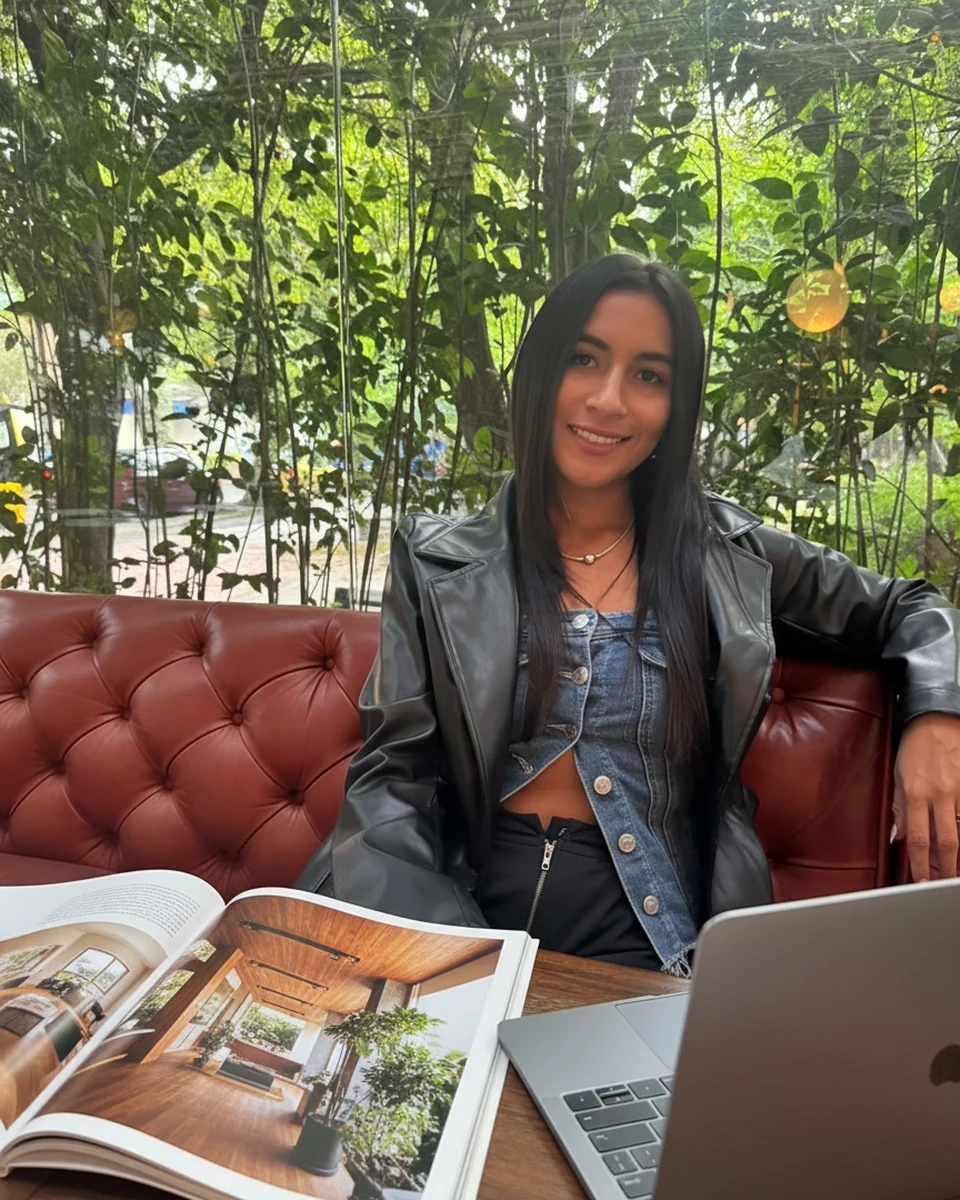
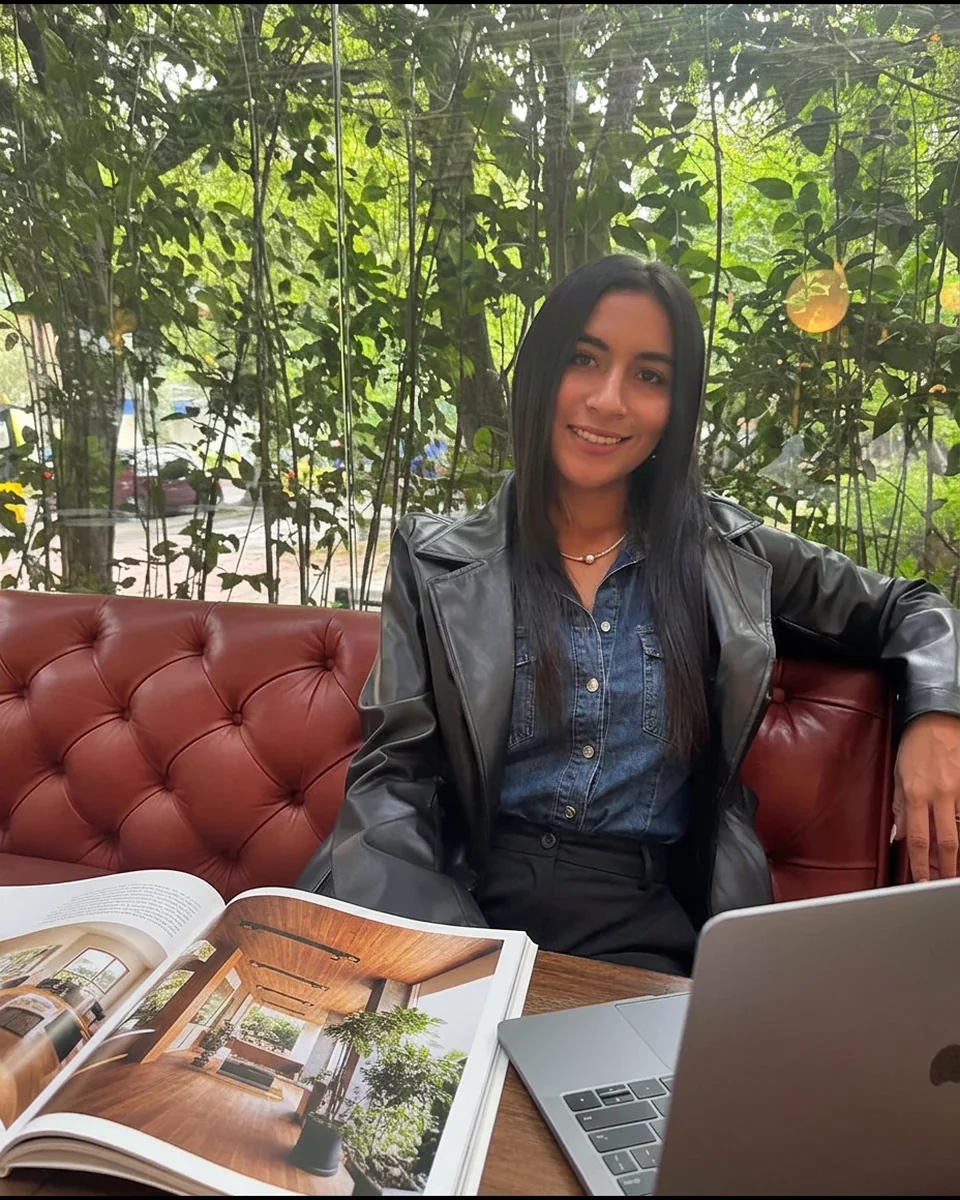
Foto profesional de Luisa, eslogan centrado y sede en Puerto Rico
- Foto de Luisa con la camisa cerrada (sin abdomen visible)
- Concepto: "Habitar" en blanco y "en equilibrio" en arena, centrado y con luz
- Pilares bajo el eslogan: Fenomenologia, Bioclimatica, Jerarquia
- Luisa trabaja desde Puerto Rico en remoto: Sobre mi, pregunta 08 y datos para Google

diff --git a/index.html b/index.html
@@ -4,7 +4,7 @@
   <meta charset="utf-8">
   <meta name="viewport" content="width=device-width, initial-scale=1, viewport-fit=cover">
   <title>Levels Architecture · Luisa F. Rodríguez · Arquitecta | Habitar en equilibrio</title>
-  <meta name="description" content="Arquitectura cálida, orgánica y consciente por Luisa F. Rodríguez. Diseño, remodelación y obra con fenomenología, bioclimática y niveles. Colombia y servicios internacionales. Warm, organic architecture.">
+  <meta name="description" content="Arquitectura cálida, orgánica y consciente por Luisa F. Rodríguez. Diseño, remodelación y obra con fenomenología, bioclimática y niveles. Desde Puerto Rico, con diseño remoto y proyectos en Colombia. Warm, organic architecture.">
   <link rel="canonical" href="https://levelsarchitecture.com/">
   <meta name="robots" content="index, follow, max-image-preview:large">
   <meta name="author" content="Luisa Fernanda Rodríguez Rojas">
@@ -18,7 +18,7 @@
   <meta property="og:image" content="https://levelsarchitecture.com/assets/og.jpg">
   <meta property="og:image:width" content="1200">
   <meta property="og:image:height" content="630">
-  <meta property="og:locale" content="es_CO">
+  <meta property="og:locale" content="es_PR">
   <meta property="og:locale:alternate" content="en_US">
   <meta name="twitter:card" content="summary_large_image">
   <meta name="twitter:title" content="Levels Architecture · Habitar en equilibrio">
@@ -39,9 +39,14 @@
    "logo": "https://levelsarchitecture.com/assets/hero/img/logo-arena.png",
    "image": "https://levelsarchitecture.com/assets/og.jpg",
    "slogan": "Habitar en equilibrio",
-   "description": "Arquitectura cálida, orgánica y consciente: diseño, licenciamiento, presupuestos, interventoría y obra. Fenomenología, bioclimática y niveles. Proyectos en Colombia y servicios internacionales.",
+   "description": "Arquitectura cálida, orgánica y consciente: diseño, licenciamiento, presupuestos, interventoría y obra. Fenomenología, bioclimática y niveles. Con sede en Puerto Rico y trabajo remoto; proyectos en Colombia y servicios internacionales.",
    "telephone": "+1-787-710-6964",
+   "address": {
+    "@type": "PostalAddress",
+    "addressCountry": "PR"
+   },
    "areaServed": [
+    "Puerto Rico",
     "Colombia",
     "International"
    ],
@@ -153,10 +158,10 @@
     },
     {
      "@type": "Question",
-     "name": "¿Trabajas fuera de Colombia? ¿Ofreces diseño remoto?",
+     "name": "¿Dónde estás? ¿Trabajas de forma remota?",
      "acceptedAnswer": {
       "@type": "Answer",
-      "text": "Sí. Levels ofrece servicios internacionales: el proceso de diseño, la asesoría y el seguimiento pueden hacerse de forma remota, con reuniones virtuales y entregas digitales (planos, renders y recorridos). Escríbeme por WhatsApp y revisamos tu proyecto y su ubicación."
+      "text": "Estoy en Puerto Rico y trabajo de forma remota. Levels ofrece servicios internacionales, y mis proyectos están en Colombia: el proceso de diseño, la asesoría y el seguimiento pueden hacerse de forma remota, con reuniones virtuales y entregas digitales (planos, renders y recorridos). Escríbeme por WhatsApp y revisamos tu proyecto y su ubicación."
      }
     },
     {
@@ -262,6 +267,7 @@
     <p class="manifesto__b reveal" data-en="in balance." data-es="en equilibrio."></p>
     <span class="manifesto__rule reveal" aria-hidden="true"></span>
     <p class="manifesto__c reveal" data-en="Space is not looked at, it is lived with the body, the light and the climate. Every level of a project (the body, the space, the surroundings) is resolved in harmony." data-es="No se mira el espacio, se lo vive con el cuerpo, la luz y el clima. Cada nivel de un proyecto (el cuerpo, el espacio, el entorno) se resuelve en armonía."></p>
+    <p class="manifesto__keys reveal" data-en="<span>Phenomenology</span><span>Bioclimatic</span><span>Hierarchy</span>" data-es="<span>Fenomenología</span><span>Bioclimática</span><span>Jerarquía</span>"></p>
     <p class="manifesto__sig reveal">Luisa F. Rodríguez</p>
   </div>
   <svg class="wave" viewBox="0 0 1440 120" preserveAspectRatio="none" aria-hidden="true">
@@ -410,13 +416,13 @@
   <div class="wrap about__grid">
     <div class="about__frame">
       <div class="about__photo">
-        <img src="assets/luisa/luisa.webp" alt="Luisa F. Rodríguez, architect" loading="lazy">
+        <img src="assets/luisa/luisa.webp?v=2" alt="Luisa F. Rodríguez, architect" loading="lazy">
       </div>
     </div>
     <div>
       <p class="eyebrow" data-en="About" data-es="Sobre mí"></p>
       <h2 class="display">Luisa F. <em>Rodríguez</em></h2>
-      <p class="about__text" data-en="An architect who graduated from Universidad Piloto de Colombia, with experience in design, permitting, site supervision, cost estimating and budgeting, and construction. I approach the environment through phenomenology to turn the experience of space into a tool for wellbeing and human development. My technical training on site, in budgets and in leading teams allows me to bring this sensitive vision into built reality, with rigor, feasibility and faithfulness to the design. My proposal is a warm, organic and conscious architecture that accompanies the life of those who inhabit it." data-es="Arquitecta egresada de la Universidad Piloto de Colombia, con experiencia en diseño, licenciamiento, interventoría, costos, presupuestos y ejecución de obra. Comprendo el entorno desde la fenomenología para transformar la experiencia del espacio en una herramienta para el bienestar y el desarrollo humano. Mi formación técnica en obra, presupuestos y dirección de personal me permite llevar esta visión sensible a la realidad construida, con rigor, viabilidad y cumplimiento de lo diseñado. Mi propuesta es una arquitectura cálida, orgánica y consciente, que acompaña la vida de quien la habita."></p>
+      <p class="about__text" data-en="An architect who graduated from Universidad Piloto de Colombia, with experience in design, permitting, site supervision, cost estimating and budgeting, and construction. I approach the environment through phenomenology to turn the experience of space into a tool for wellbeing and human development. My technical training on site, in budgets and in leading teams allows me to bring this sensitive vision into built reality, with rigor, feasibility and faithfulness to the design. My proposal is a warm, organic and conscious architecture that accompanies the life of those who inhabit it. Today I work from Puerto Rico, remotely, with projects in Colombia and abroad." data-es="Arquitecta egresada de la Universidad Piloto de Colombia, con experiencia en diseño, licenciamiento, interventoría, costos, presupuestos y ejecución de obra. Comprendo el entorno desde la fenomenología para transformar la experiencia del espacio en una herramienta para el bienestar y el desarrollo humano. Mi formación técnica en obra, presupuestos y dirección de personal me permite llevar esta visión sensible a la realidad construida, con rigor, viabilidad y cumplimiento de lo diseñado. Mi propuesta es una arquitectura cálida, orgánica y consciente, que acompaña la vida de quien la habita. Hoy trabajo desde Puerto Rico, de forma remota, con proyectos en Colombia y otros países."></p>
       <ul class="about__method">
         <li><b data-en="Feel" data-es="Sentir"></b><span data-en="Phenomenology: light, materials, environment." data-es="Fenomenología: luz, materiales, entorno."></span></li>
         <li><b data-en="Design" data-es="Diseñar"></b><span data-en="From the why: the wellbeing of whoever lives it." data-es="Desde el porqué: el bienestar de quien lo habita."></span></li>
@@ -476,10 +482,10 @@
           data-es="<p>Ambos. Cada proyecto parte de la misma pregunta, sea cual sea su uso. Comercial: <b>CIELO</b>, una tienda de açaí bowls en Mosquera. Residencial: <b>FINCA LOMIX</b> (finca de retiro en Cumaca), <b>EL REFUGIO</b> (casa familiar ampliada en Pacho) y <b>CASA NIDO</b> (casa que se abre al jardín en Anapoima). Obra nueva, ampliaciones y remodelaciones.</p>"></div>
       </details>
       <details>
-        <summary data-en="<span class='faq__n'>08</span>Do you work outside Colombia? Do you offer remote design?" data-es="<span class='faq__n'>08</span>¿Trabajas fuera de Colombia? ¿Ofreces diseño remoto?"></summary>
+        <summary data-en="<span class='faq__n'>08</span>Where are you based? Do you work remotely?" data-es="<span class='faq__n'>08</span>¿Dónde estás? ¿Trabajas de forma remota?"></summary>
         <div class="faq__a"
-          data-en="<p>Yes. Levels offers international services: the design process, advisory and follow-up can be done remotely, with virtual meetings and digital deliverables (plans, renders and walkthroughs). <a data-wa href='https://wa.me/17877106964' target='_blank' rel='noopener'>Write to me on WhatsApp</a> and we will look at your project and where it is.</p>"
-          data-es="<p>Sí. Levels ofrece servicios internacionales: el proceso de diseño, la asesoría y el seguimiento pueden hacerse de forma remota, con reuniones virtuales y entregas digitales (planos, renders y recorridos). <a data-wa href='https://wa.me/17877106964' target='_blank' rel='noopener'>Escríbeme por WhatsApp</a> y revisamos tu proyecto y su ubicación.</p>"></div>
+          data-en="<p>I am based in Puerto Rico and work remotely. Levels offers international services, and my projects are in Colombia: the design process, advisory and follow-up can be done remotely, with virtual meetings and digital deliverables (plans, renders and walkthroughs). <a data-wa href='https://wa.me/17877106964' target='_blank' rel='noopener'>Write to me on WhatsApp</a> and we will look at your project and where it is.</p>"
+          data-es="<p>Estoy en Puerto Rico y trabajo de forma remota. Levels ofrece servicios internacionales, y mis proyectos están en Colombia: el proceso de diseño, la asesoría y el seguimiento pueden hacerse de forma remota, con reuniones virtuales y entregas digitales (planos, renders y recorridos). <a data-wa href='https://wa.me/17877106964' target='_blank' rel='noopener'>Escríbeme por WhatsApp</a> y revisamos tu proyecto y su ubicación.</p>"></div>
       </details>
       <details>
         <summary data-en="<span class='faq__n'>09</span>Do you handle the construction or only the design?" data-es="<span class='faq__n'>09</span>¿Te encargas de la obra o solo del diseño?"></summary>

diff --git a/styles.css b/styles.css
@@ -665,3 +665,34 @@ body::before {
 .faq__a a:hover { color: var(--lamp); }
 .faq__refs { font-size: 14px; color: rgba(245, 240, 230, .62) !important; }
 
+/* ---------- Concepto: Luisa's slogan, centered and lit (white + sand) ---------- */
+.manifesto__in { text-align: center; display: flex; flex-direction: column; align-items: center; }
+.manifesto .glow--soft { inset: -5% 10% 10%; opacity: .7; }
+.manifesto__a, .manifesto__b { margin-left: 0; margin-right: 0; }
+.manifesto__a {
+  font: 800 clamp(64px, 12vw, 190px)/.9 var(--font-sans); letter-spacing: -.05em; color: #FFFDF8;
+  text-shadow: 0 0 18px rgba(255, 236, 200, .35), 0 0 60px rgba(240, 196, 146, .28);
+}
+.manifesto__b {
+  margin-top: .02em; font: italic 300 clamp(48px, 9vw, 150px)/1 var(--font-serif); color: var(--arena);
+  text-shadow: 0 0 22px rgba(240, 196, 146, .45), 0 0 70px rgba(201, 154, 108, .3);
+  animation: slogan-breathe 5s ease-in-out infinite alternate;
+}
+@keyframes slogan-breathe {
+  from { text-shadow: 0 0 14px rgba(240, 196, 146, .3), 0 0 50px rgba(201, 154, 108, .18); }
+  to   { text-shadow: 0 0 26px rgba(255, 214, 160, .6), 0 0 90px rgba(232, 170, 100, .38); }
+}
+.manifesto__rule { margin: clamp(30px, 4vw, 52px) auto 26px; width: min(300px, 50%); background: linear-gradient(90deg, transparent, var(--terracota), transparent); }
+.manifesto__c { margin: 0 auto; max-width: 600px; font: italic 300 clamp(19px, 1.9vw, 25px)/1.55 var(--font-serif); color: rgba(245, 240, 230, .9); }
+.manifesto__keys { display: flex; flex-wrap: wrap; justify-content: center; gap: 10px 28px; margin: 30px 0 0; font: 600 11px/1 var(--font-sans); letter-spacing: .22em; text-transform: uppercase; color: var(--arena); }
+.manifesto__keys span { position: relative; transition: color .5s var(--ease), text-shadow .6s var(--ease); }
+.manifesto__keys span + span::before { content: ""; position: absolute; left: -16px; top: 50%; width: 4px; height: 4px; margin-top: -2px; border-radius: 50%; background: var(--terracota); }
+.manifesto__keys span:hover { color: var(--lamp); text-shadow: var(--lamp-glow); }
+.manifesto__sig { margin: 26px 0 0; }
+.manifesto .reveal, .manifesto__b.reveal, .manifesto__c.reveal, .manifesto__sig.reveal { transform: translateY(34px); }
+.manifesto .reveal.in { transform: none; }
+@media (max-width: 760px) {
+  .manifesto__c { font-size: 18px; padding: 0 4px; }
+  .manifesto__keys { gap: 10px 24px; font-size: 10px; letter-spacing: .18em; }
+}
+@media (prefers-reduced-motion: reduce) { .manifesto__b { animation: none; } }
